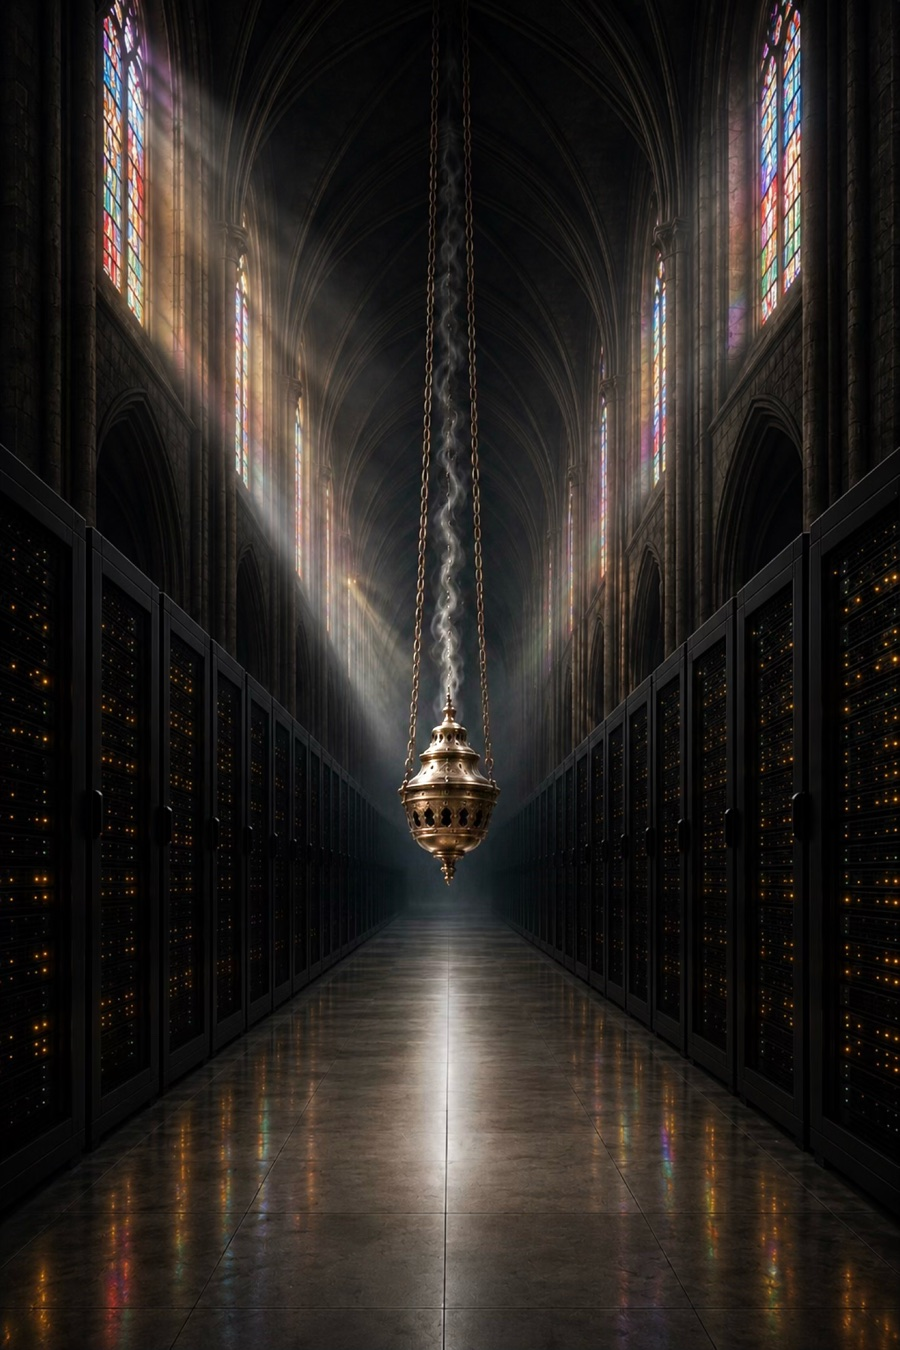
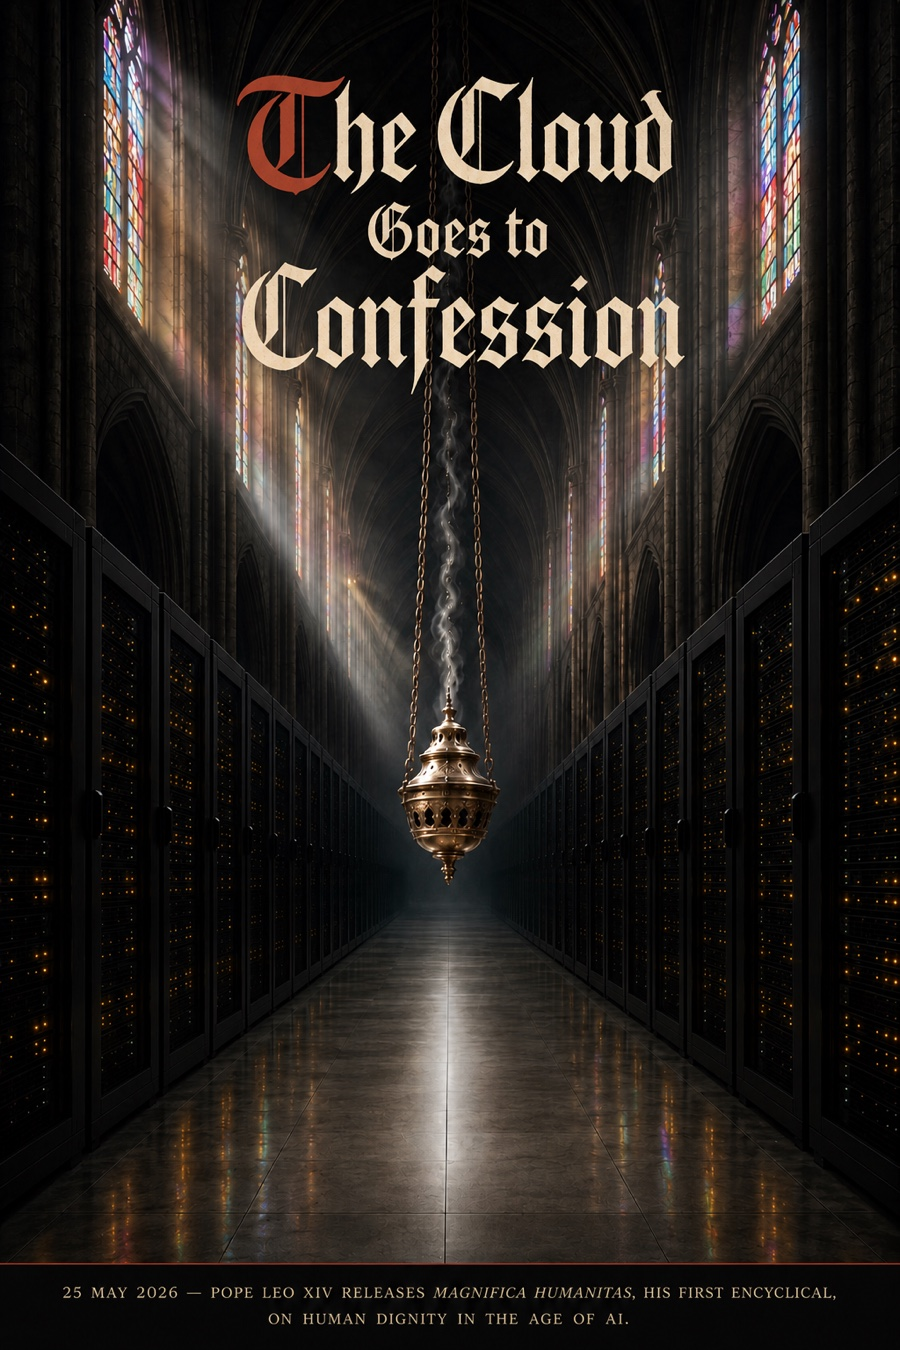
Replace VIGIL encyclical poster

diff --git a/README.md b/README.md
@@ -19,8 +19,8 @@ VIGIL is an ongoing research prototype developed by Eugene Sannikov within his P
       <sub><strong>Figure 1.</strong> <em>The Crossing Leads Back</em> (2026). A stair crosses a fortified border and returns to its point of origin.</sub>
     </td>
     <td width="33.33%" valign="top">
-      <a href="assets/works/the-machine-must-answer.png"><img src="assets/works/the-machine-must-answer.jpg" alt="The Machine Must Answer"></a><br>
-      <sub><strong>Figure 2.</strong> <em>The Machine Must Answer</em> (2026). Incense rises where a sanctuary and a server room occupy the same space.</sub>
+      <a href="assets/works/the-machine-must-answer.png"><img src="assets/works/the-machine-must-answer.jpg" alt="The Cloud Goes to Confession"></a><br>
+      <sub><strong>Figure 2.</strong> <em>The Cloud Goes to Confession</em> (2026). Incense rises where a sanctuary and a server room occupy the same space.</sub>
     </td>
     <td width="33.33%" valign="top">
       <a href="assets/works/ferrum-mapifolia.png"><img src="assets/works/ferrum-mapifolia.jpg" alt="Ferrum mapifolia"></a><br>
